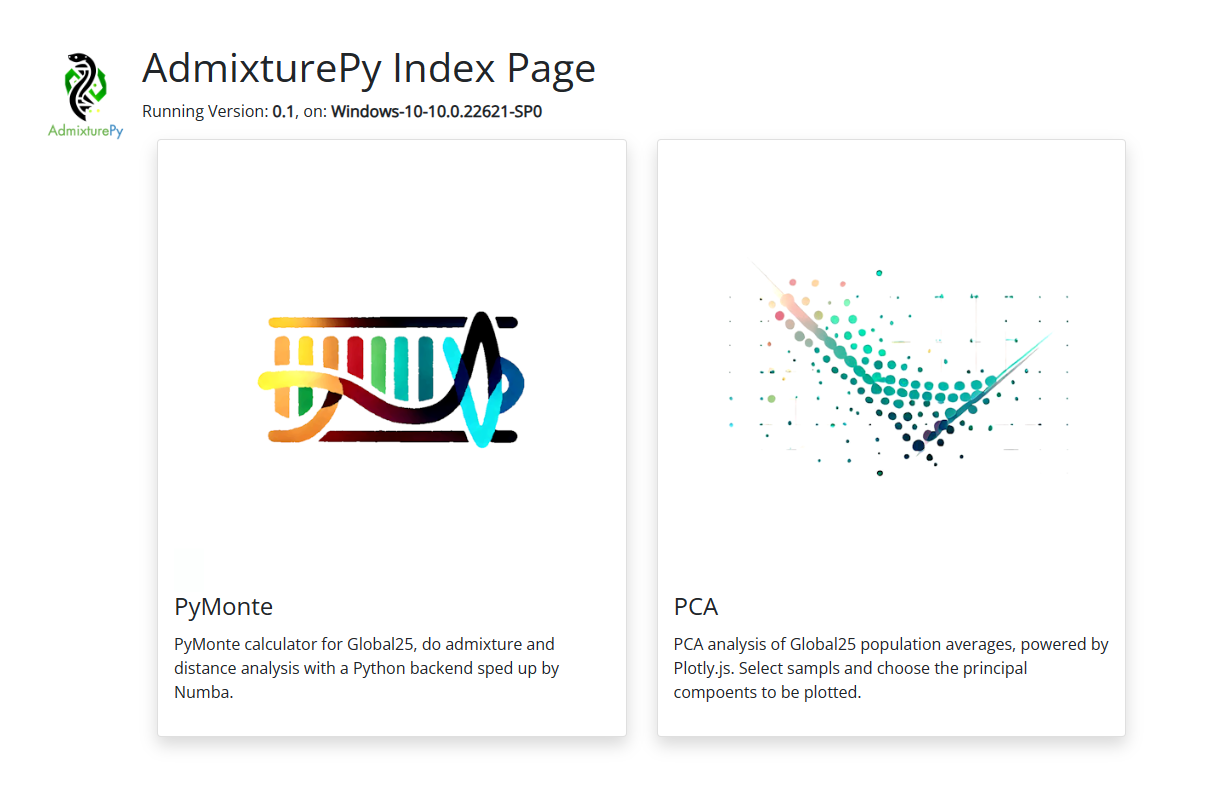
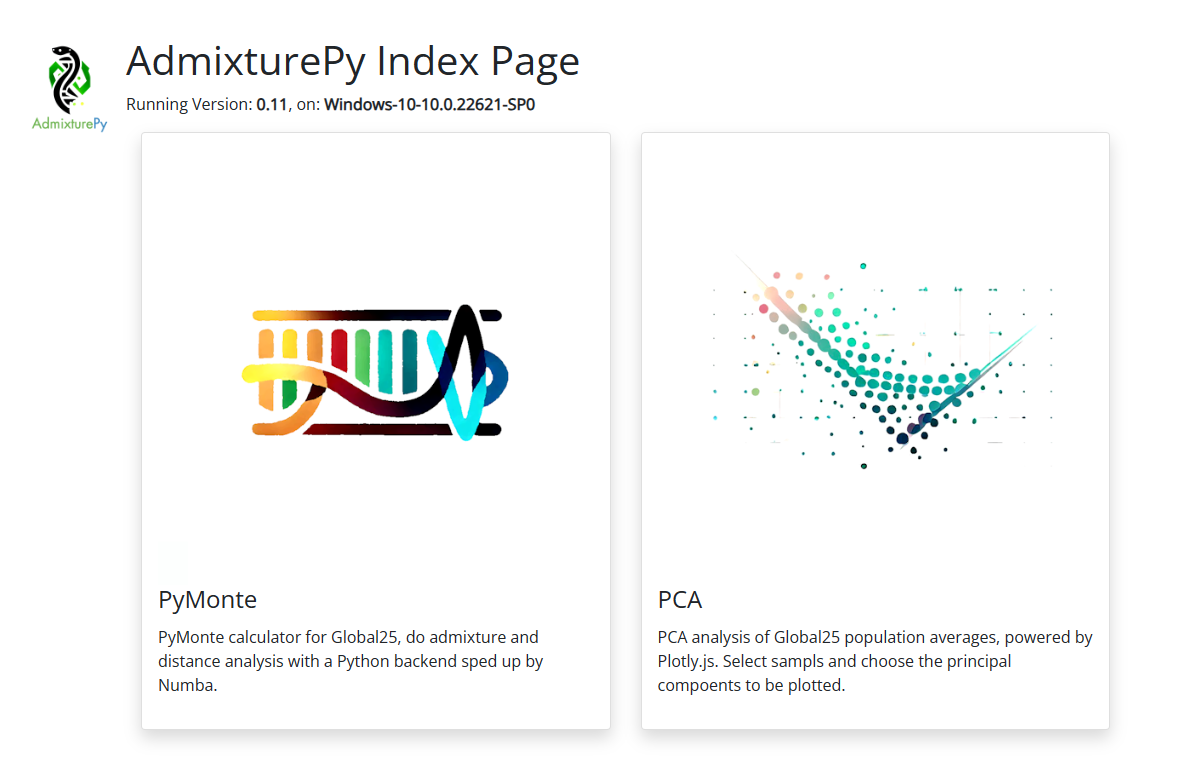
add 3D PCA and some minor fixes

diff --git a/src/templates/base.html b/src/templates/base.html
@@ -2,9 +2,8 @@
 <html>
 
 <head>
-    <title>{% block page_title %}
-            {% endblock %}
-    </title>
+    <title>{% block page_title %}{% endblock %}</title>
+    <link rel="shortcut icon" href="{{ url_for('static', filename='resources/favicon.ico') }}">
     <link rel="stylesheet" href="https://cdn.jsdelivr.net/npm/bootstrap@4.6.2/dist/css/bootstrap.min.css" integrity="sha384-xOolHFLEh07PJGoPkLv1IbcEPTNtaed2xpHsD9ESMhqIYd0nLMwNLD69Npy4HI+N" crossorigin="anonymous">
     <link rel="stylesheet" href="https://cdnjs.cloudflare.com/ajax/libs/font-awesome/4.7.0/css/font-awesome.min.css">
     <style>
@@ -15,8 +14,11 @@
 
         body
         {
+            width: 100%;
+            height: 100%;
             font-family: PyAdamFont;
         }
+        
         .list-group
         {
             max-height: 250px;
@@ -24,10 +26,18 @@
             overflow:auto;
             -webkit-overflow-scrolling: touch;
         }
+
+        .footer 
+        {
+            background-color: #f5f5f5;
+        }
+
+        .footer > .container {
+            padding-right: 15px;
+            padding-left: 15px;
+        }
     </style>
-    {% block page_css %}
-    {# Page CSS here #}
-    {% endblock %}
+    {% block page_css %}{% endblock %}
 </head>
 
 <body>
@@ -37,7 +47,7 @@
             aria-controls="navbarSupportedContent" aria-expanded="false" aria-label="Toggle navigation">
             <span class="navbar-toggler-icon"></span>
         </button>
-    
+
         <div class="collapse navbar-collapse" id="navbarSupportedContent">
             <ul class="navbar-nav mr-auto">
                 <li class="nav-item">
@@ -50,22 +60,33 @@
                     <a class="nav-link" href="/pca">PCA</a>
                 </li>
             </ul>
+
+            <label class="label mr-sm-2"><span class="text-muted">&#169; <b id="copyright_current_year"></b> <a href="https://github.com/AdmixturePy/admixturepy">AdmixturePy Contributors</a></span></div>
+            
         </div>
     </nav>
 
     <div class="page-content">
-        {% block page_content %}
-            {# Page content goes here #}
-        {% endblock %}
+        {% block page_content %}{% endblock %}
     </div>
+
 
     <script src="https://cdnjs.cloudflare.com/ajax/libs/jquery/3.7.0/jquery.min.js" integrity="sha512-3gJwYpMe3QewGELv8k/BX9vcqhryRdzRMxVfq6ngyWXwo03GFEzjsUm8Q7RZcHPHksttq7/GFoxjCVUjkjvPdw==" crossorigin="anonymous" referrerpolicy="no-referrer"></script><script src="https://cdn.jsdelivr.net/npm/popper.js@1.16.1/dist/umd/popper.min.js" integrity="sha384-9/reFTGAW83EW2RDu2S0VKaIzap3H66lZH81PoYlFhbGU+6BZp6G7niu735Sk7lN" crossorigin="anonymous"></script>
     <script src="https://cdn.jsdelivr.net/npm/popper.js@1.16.1/dist/umd/popper.min.js" integrity="sha384-9/reFTGAW83EW2RDu2S0VKaIzap3H66lZH81PoYlFhbGU+6BZp6G7niu735Sk7lN" crossorigin="anonymous"></script>
     <script src="https://cdn.jsdelivr.net/npm/bootstrap@4.6.2/dist/js/bootstrap.min.js" integrity="sha384-+sLIOodYLS7CIrQpBjl+C7nPvqq+FbNUBDunl/OZv93DB7Ln/533i8e/mZXLi/P+" crossorigin="anonymous"></script>
 
+    <script>
+    // Insert (C) Year
+    $(document).ready( function () { 
+        var current_time = new Date();
+        $("#copyright_current_year").html(current_time.getFullYear());
+    })
+    </script>
+
     {% block page_scripts %}
         {# Scripts go Here #}
     {% endblock %}
+
 
 </body>
 

diff --git a/src/static/js/pca.js b/src/static/js/pca.js
@@ -79,8 +79,16 @@ function PlotPCA()
 {
     var X_PC = document.getElementById('X_PC').value
     var Y_PC = document.getElementById('Y_PC').value
+    var Z_PC = document.getElementById('Z_PC').value
+    var plot_Z = $("#z_axis_checkbox").is(':checked');
+    var scatter_type = 'scatter';
 
-    JSON_to_send = { "pc": [Number(X_PC), Number(Y_PC)], "samples": selected_samples }
+    if(plot_Z)
+    {
+        scatter_type = 'scatter3d';
+    }
+
+    JSON_to_send = { "pc": [Number(X_PC), Number(Y_PC), 3], "samples": selected_samples }
     url = '/api/samples/batch'
     var xhr = new XMLHttpRequest();
     xhr.open("POST", url, true);
@@ -88,12 +96,65 @@ function PlotPCA()
     xhr.onreadystatechange = function () {
         if (xhr.readyState === 4 && xhr.status === 200) {
             JSON_data = JSON.parse(xhr.responseText)
-            X_array = JSON_data["PC" + X_PC]
-            Y_array = JSON_data["PC" + Y_PC]
+            X_array = JSON_data["PC" + X_PC];
+            Y_array = JSON_data["PC" + Y_PC];
+            Z_array = JSON_data["PC" + Z_PC];
         }
         plotly_elem = document.getElementById("plotly_pca_plot");
-        var data = { x: X_array, y: Y_array, mode: 'markers+text', type: 'scatter', name: 'PCA Plot', text: selected_samples, textposition: 'top center', marker: { size: 12 } };
-        Plotly.newPlot(plotly_elem, [data]);
+        var data = { 
+            x: X_array, 
+            y: Y_array, 
+            z: Z_array, 
+            mode: 'markers+text', 
+            type: scatter_type, 
+            name: 'PCA Plot', 
+            text: selected_samples, 
+            textposition: 'top center', 
+            marker: { size: 12 } 
+        };
+
+        var layout = {
+            title: {
+              text:'PC' + X_PC + ' PC' + Y_PC + ' PC' + Z_PC,
+              font: {
+                family: 'sans-serif',
+                size: 24
+              },
+              xref: 'paper',
+              x: 0.05,
+            },
+            xaxis: {
+              title: {
+                text: 'PC' + X_PC,
+                font: {
+                  family: 'sans-serif',
+                  size: 18,
+                  color: '#7f7f7f'
+                }
+              },
+            },
+            yaxis: {
+              title: {
+                text: 'PC' + Y_PC,
+                font: {
+                  family: 'sans-serif',
+                  size: 18,
+                  color: '#7f7f7f'
+                }
+              }
+            },
+            zaxis: {
+                title: {
+                  text: 'PC' + Z_PC,
+                  font: {
+                    family: 'sans-serif',
+                    size: 18,
+                    color: '#7f7f7f'
+                  }
+                }
+              }
+        };
+        Plotly.newPlot(plotly_elem, [data], layout);
     }
     xhr.send(JSON.stringify(JSON_to_send))
 }

diff --git a/src/templates/index.html b/src/templates/index.html
@@ -1,8 +1,9 @@
 <!DOCTYPE html>
 <html>
     <head>
-        <title>Home Page</title>
-        <link rel="stylesheet" href="{{ url_for('static', filename='styles/bootstrap.min.css')}}">
+        <title>AdmixturePy Index Page</title>
+        <link rel="shortcut icon" href="{{ url_for('static', filename='resources/favicon.ico') }}">
+        <link rel="stylesheet" href="https://cdn.jsdelivr.net/npm/bootstrap@4.6.2/dist/css/bootstrap.min.css" integrity="sha384-xOolHFLEh07PJGoPkLv1IbcEPTNtaed2xpHsD9ESMhqIYd0nLMwNLD69Npy4HI+N" crossorigin="anonymous">
         <link rel="stylesheet" href="https://cdnjs.cloudflare.com/ajax/libs/font-awesome/4.7.0/css/font-awesome.min.css">
         <style>
             @font-face 
@@ -63,15 +64,31 @@
                 </div>
             </div>
         </div>
-        <script src="{{ url_for('static', filename='js/lib/jquery.min.js')}}"></script>
-        <script src="{{ url_for('static', filename='js/lib/popper.min.js')}}"></script>
-        <script src="{{ url_for('static', filename='js/lib/bootstrap.min.js')}}"></script>
+        <script src="https://cdnjs.cloudflare.com/ajax/libs/jquery/3.7.0/jquery.min.js" integrity="sha512-3gJwYpMe3QewGELv8k/BX9vcqhryRdzRMxVfq6ngyWXwo03GFEzjsUm8Q7RZcHPHksttq7/GFoxjCVUjkjvPdw==" crossorigin="anonymous" referrerpolicy="no-referrer"></script><script src="https://cdn.jsdelivr.net/npm/popper.js@1.16.1/dist/umd/popper.min.js" integrity="sha384-9/reFTGAW83EW2RDu2S0VKaIzap3H66lZH81PoYlFhbGU+6BZp6G7niu735Sk7lN" crossorigin="anonymous"></script>
+        <script src="https://cdn.jsdelivr.net/npm/popper.js@1.16.1/dist/umd/popper.min.js" integrity="sha384-9/reFTGAW83EW2RDu2S0VKaIzap3H66lZH81PoYlFhbGU+6BZp6G7niu735Sk7lN" crossorigin="anonymous"></script>
+        <script src="https://cdn.jsdelivr.net/npm/bootstrap@4.6.2/dist/js/bootstrap.min.js" integrity="sha384-+sLIOodYLS7CIrQpBjl+C7nPvqq+FbNUBDunl/OZv93DB7Ln/533i8e/mZXLi/P+" crossorigin="anonymous"></script>
+
         <script>
             // Get version string
             $.getJSON('/api/version', (data) => {
                 $("#version_string").html(data["version_major"] + "." + data["version_minor"]);
                 $("#platform_string").html(data["platform"]);
             })
+
+            // Inser (C) Year
+            $(document).ready( function () { 
+                var current_time = new Date();
+                $("#footer_current_year").html(current_time.getFullYear());
+            });
         </script>
+        
     </body>
+
+    <footer class="page-footer font-small blue">
+    <!-- Copyright -->
+        <div class="footer-copyright text-center py-3">
+            © <b id="footer_current_year"></b>&nbsp; &nbsp;<a href="https://github.com/AdmixturePy/">AdmixturePy Contributors</a>
+        </div>
+    <!-- Copyright -->
+    </footer>
 </html>

diff --git a/src/templates/pca.html b/src/templates/pca.html
@@ -8,10 +8,11 @@ PCA
 <script src="https://cdn.plot.ly/plotly-2.24.1.min.js" charset="utf-8"></script>
 <style>
     .page-content {
-        padding-top: 3%;
-        padding-bottom: 3%;
         padding-left: 5%;
         padding-right: 5%;
+        padding-top: 3%;
+        padding-bottom: 3%;
+        background-attachment: fixed;
     }
 </style>
 {% endblock %}
@@ -69,7 +70,23 @@ PCA
                                             class="fa fa-plus"></span></button>
                                 </div>
                             </li>
+
+                            <li class="list-group-item">
+                                <b>Z-Axis</b>
+                                <div class="none" style="float:right;">
+                                    PC
+                                    <button class="btn btn-sm btn-danger"><span class="fa fa-minus"
+                                            onClick="DecrementInput('Z_PC')"></span></button>
+                                    <input type="number" id="Z_PC" name="Z_PC" min="1" max="25" value="3">
+                                    <button class="btn btn-sm btn-success" onClick="IncrementInput('Z_PC')"><span
+                                            class="fa fa-plus"></span></button>
+                                </div>
+                            </li>
                         </ul>
+                        <div class="form-check">
+                            <input class="form-check-input" type="checkbox" value="" id="z_axis_checkbox">
+                            <label class="form-check-label" for="z_axis_checkbox">Enable Z-Axis</label>
+                        </div>
                     </div>
                 </div>
             </div>
@@ -80,7 +97,7 @@ PCA
         <div class="col-9">
             <div class="card shadow p-1 mb-5 bg-white rounded">
                 <div class="card-body">
-                <h5 class="card-title">Plot</h5>
+                <h5 class="card-title">Output</h5>
                     <div id="plotly_pca_plot" style="width:1200px;height:700px;"></div>
                 </div>
             </div>

diff --git a/src/templates/calculator.html b/src/templates/calculator.html
@@ -13,7 +13,6 @@ PyAdam Calculator
         padding-right: 10%;
         padding-top: 3%;
         padding-bottom: 3%;
-        background-attachment: fixed;
     }
 
     table {

diff --git a/src/static/js/oninit_pca.js b/src/static/js/oninit_pca.js
@@ -2,5 +2,6 @@ var g25_sample_list = []
 var selected_samples = []
 var X_array = []
 var Y_array = []
+var Z_array = []
 
 GetG25SampleList()

diff --git a/src/settings.py b/src/settings.py
@@ -1,4 +1,4 @@
 G25_ANCIENT_AVERAGED_SCALED = '1F2rKEVtu8nWSm7qFhxPU6UESQNsmA-sl'
 G25_MODERN_AVERAGED_SCALED = '1wZr-UOve0KUKo_Qbgeo27m-CQncZWb8y'
 PYMONTE_VERSION_MAJOR = 0
-PYMONTE_VERSION_MINOR = 1
+PYMONTE_VERSION_MINOR = 11

diff --git a/README.md b/README.md
@@ -7,7 +7,7 @@ A set of admixture tools written in Python with a JavaScript frontend.
 
 * Monte-Carlo Simulation in Python (sped up using numba) to estimate Global25 ancestry
 * Distance calculator
-* 2D PCA analysis
+* 2D/3D PCA analysis
 * Loading and saving models through JSON
 * Complete API access to the G25 database
 * Implemented in Flask
@@ -18,8 +18,13 @@ A set of admixture tools written in Python with a JavaScript frontend.
 
 * Custom samples
 * CUDA implementation of nMonte to speed up calculations
-* 3D PCA analysis
 
-| Index Page | Calculator UI | Distance | PCA UI |
-| ---------- | ------------- | -------- | ------ | 
-| ![](doc/img/scshot-index.png) | ![](doc/img/scshot-calculator.png) | ![](doc/img/scshot-distance.png) | ![](doc/img/scshot-pca.png) | 
+
+
+| Index | Distance | Calculator UI |
+| ----- | -------- | ------------- |
+| ![](doc/img/scshot-index.png) | ![](doc/img/scshot-distance.png) | ![](doc/img/scshot-calculator.png) | 
+
+| 2D PCA  | 3D PCA |
+| ------- | ------ | 
+| ![](doc/img/scshot-pca.png) | ![](doc/img/schot-pca3d.png) | 
